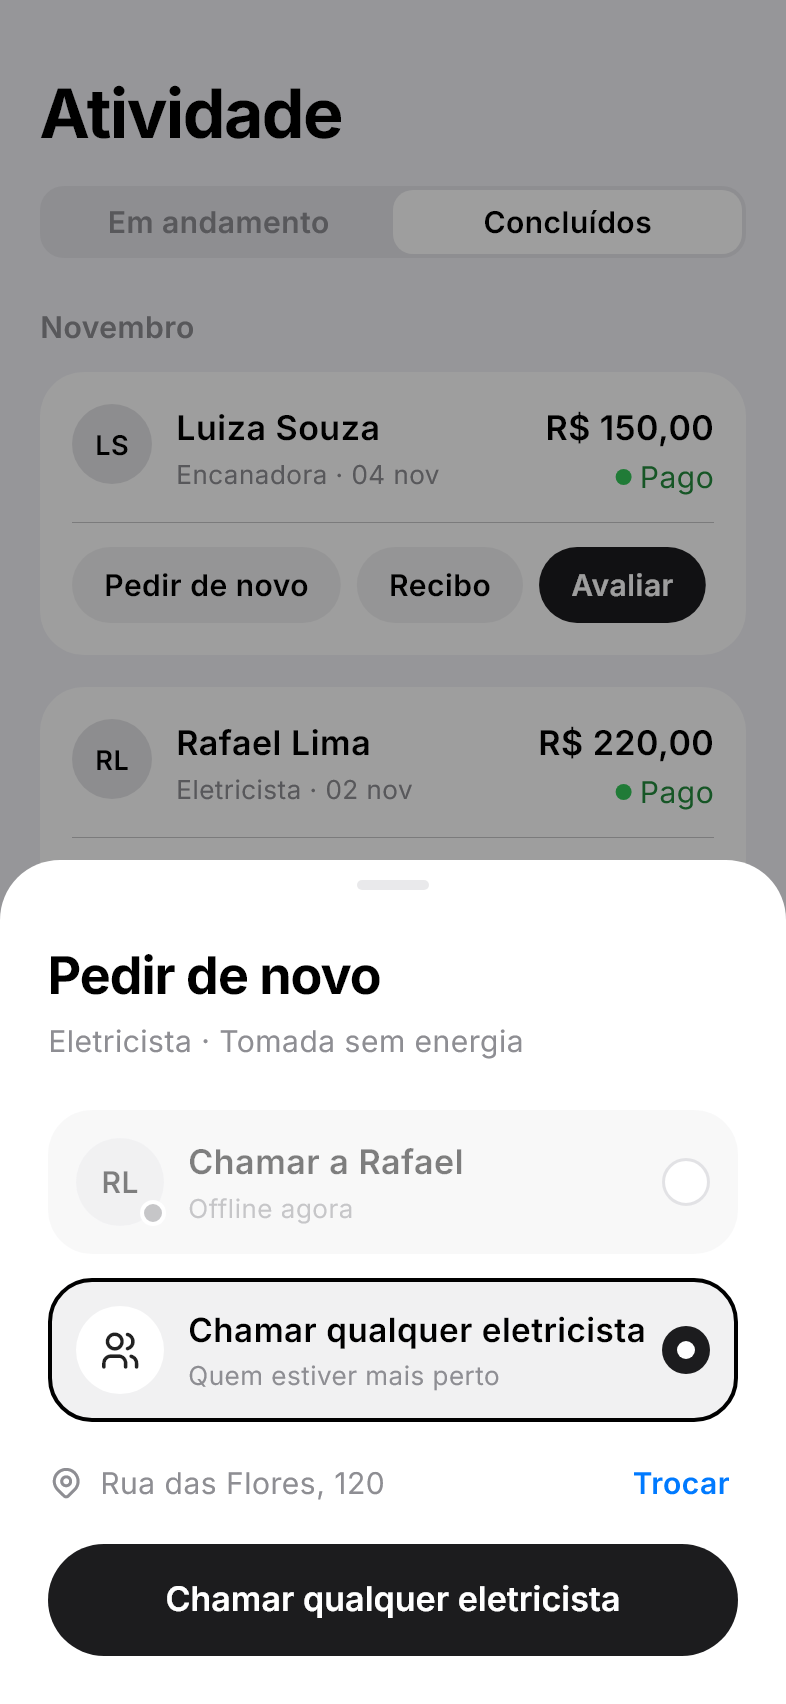
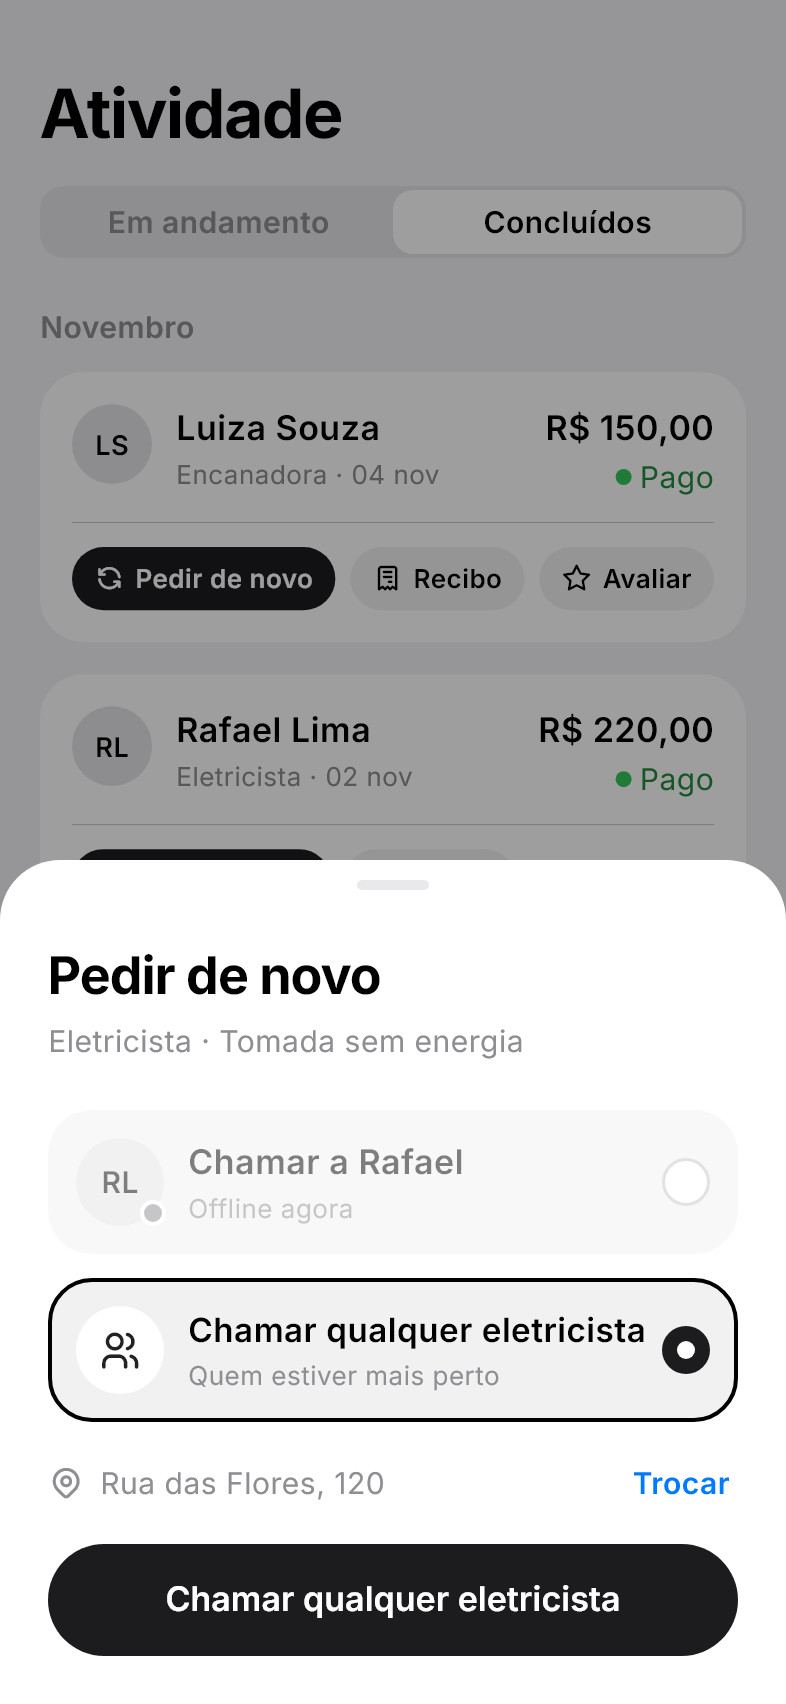
Ajustes: enviar no chat, ícones e status horizontal na Atividade

diff --git a/app/lib/shared/widgets/linha_do_tempo.dart b/app/lib/shared/widgets/linha_do_tempo.dart
@@ -114,3 +114,130 @@ class SeloVerde extends StatelessWidget {
     );
   }
 }
+
+/// Selo preto pequeno (ex.: tempo de chegada "12 min").
+class SeloPreto extends StatelessWidget {
+  const SeloPreto(this.texto, {super.key});
+
+  final String texto;
+
+  @override
+  Widget build(BuildContext context) {
+    return Container(
+      padding: const EdgeInsets.symmetric(horizontal: 10, vertical: 4),
+      decoration: const ShapeDecoration(
+        color: TatuColors.action,
+        shape: StadiumBorder(),
+      ),
+      child: Text(
+        texto,
+        style: const TextStyle(
+          fontSize: 13,
+          fontWeight: FontWeight.w700,
+          color: TatuColors.onAction,
+        ),
+      ),
+    );
+  }
+}
+
+/// Etapas na horizontal: bolinhas ligadas por uma linha, nomes embaixo.
+/// A etapa atual (a última feita) ganha um anel.
+class LinhaDoTempoHorizontal extends StatelessWidget {
+  const LinhaDoTempoHorizontal({
+    super.key,
+    required this.etapas,
+    required this.feitas,
+  });
+
+  final List<String> etapas;
+  final int feitas;
+
+  @override
+  Widget build(BuildContext context) {
+    final atual = feitas - 1;
+    return Semantics(
+      label: 'Etapa atual: ${etapas[atual.clamp(0, etapas.length - 1)]}',
+      child: ExcludeSemantics(
+        child: Column(
+          children: [
+            SizedBox(
+              height: 20,
+              child: CustomPaint(
+                size: Size.infinite,
+                painter: _Trilho(total: etapas.length, atual: atual),
+              ),
+            ),
+            const SizedBox(height: 6),
+            Row(
+              children: [
+                for (var i = 0; i < etapas.length; i++)
+                  Expanded(
+                    child: Padding(
+                      padding: const EdgeInsets.symmetric(horizontal: 2),
+                      child: FittedBox(
+                        fit: BoxFit.scaleDown,
+                        child: Text(
+                          etapas[i],
+                          maxLines: 1,
+                          style: TextStyle(
+                            fontSize: 12,
+                            fontWeight: i == atual
+                                ? FontWeight.w600
+                                : FontWeight.w400,
+                            color: i <= atual
+                                ? TatuColors.textPrimary
+                                : TatuColors.textSecondary,
+                          ),
+                        ),
+                      ),
+                    ),
+                  ),
+              ],
+            ),
+          ],
+        ),
+      ),
+    );
+  }
+}
+
+class _Trilho extends CustomPainter {
+  const _Trilho({required this.total, required this.atual});
+
+  final int total;
+  final int atual;
+
+  @override
+  void paint(Canvas canvas, Size size) {
+    final y = size.height / 2;
+    double x(int i) => size.width * (i + 0.5) / total;
+    final feito = Paint()
+      ..color = TatuColors.action
+      ..strokeWidth = 2;
+    final falta = Paint()
+      ..color = TatuColors.chevron
+      ..strokeWidth = 2;
+    for (var i = 0; i < total - 1; i++) {
+      canvas.drawLine(
+        Offset(x(i), y),
+        Offset(x(i + 1), y),
+        i < atual ? feito : falta,
+      );
+    }
+    for (var i = 0; i < total; i++) {
+      final c = Offset(x(i), y);
+      if (i == atual) {
+        canvas.drawCircle(c, 9, Paint()..color = TatuColors.action);
+        canvas.drawCircle(c, 7, Paint()..color = TatuColors.bg);
+        canvas.drawCircle(c, 5, Paint()..color = TatuColors.action);
+      } else {
+        canvas.drawCircle(c, 5.5, i < atual ? feito : falta);
+      }
+    }
+  }
+
+  @override
+  bool shouldRepaint(_Trilho oldDelegate) =>
+      oldDelegate.total != total || oldDelegate.atual != atual;
+}

diff --git a/app/lib/features/cliente/atividade/atividade_page.dart b/app/lib/features/cliente/atividade/atividade_page.dart
@@ -164,22 +164,29 @@ class _CartaoAndamento extends StatelessWidget {
                   crossAxisAlignment: CrossAxisAlignment.start,
                   children: [
                     Text(
-                      '${pedido.servico} · ${pedido.primeiroNome}',
+                      pedido.profissional,
                       style: const TextStyle(
                         fontSize: 17,
                         fontWeight: FontWeight.w600,
                       ),
                     ),
                     const SizedBox(height: 2),
-                    Text(pedido.endereco, style: TatuTexto.nota),
+                    Text(
+                      '${pedido.servico} · ${pedido.descricao}',
+                      style: TatuTexto.nota,
+                    ),
                   ],
                 ),
               ),
-              SeloVerde(pedido.situacao),
+              const SizedBox(width: 8),
+              SeloPreto(pedido.chegaEm),
             ],
           ),
-          const SizedBox(height: TatuMedidas.entreItens),
-          LinhaDoTempo(etapas: etapasPedido, feitas: pedido.etapasFeitas),
+          const SizedBox(height: TatuMedidas.entreSecoes),
+          LinhaDoTempoHorizontal(
+            etapas: etapasCurtas,
+            feitas: pedido.etapasFeitas,
+          ),
         ],
       ),
     );
@@ -450,30 +457,40 @@ class _CartaoConcluido extends StatelessWidget {
           const SizedBox(height: TatuMedidas.entreItens),
           Row(
             children: [
-              // Quebra de linha se não couber (telas estreitas).
+              // Uma linha só; em telas estreitas os botões encolhem um pouco.
               Expanded(
-                child: Wrap(
-                  spacing: 8,
-                  runSpacing: 8,
-                  children: [
-                    TatuChip(
-                      label: 'Pedir de novo',
-                      onTap: () => abrirPedirDeNovo(context, p),
-                    ),
-                    if (!p.cancelado)
+                child: FittedBox(
+                  fit: BoxFit.scaleDown,
+                  alignment: Alignment.centerLeft,
+                  child: Row(
+                    spacing: 8,
+                    children: [
                       TatuChip(
-                        label: 'Recibo',
-                        onTap: () => abrir(ReciboPage(pedido: p)),
-                      ),
-                    if (!p.cancelado && nota == null)
-                      TatuChip(
-                        label: 'Avaliar',
+                        label: 'Pedir de novo',
+                        iconeFixo: TablerIcons.refresh,
                         selecionado: true,
-                        onTap: () => abrir(AvaliarPage(pedido: p)),
+                        pequeno: true,
+                        onTap: () => abrirPedirDeNovo(context, p),
                       ),
-                  ],
+                      if (!p.cancelado)
+                        TatuChip(
+                          label: 'Recibo',
+                          iconeFixo: TablerIcons.receipt,
+                          pequeno: true,
+                          onTap: () => abrir(ReciboPage(pedido: p)),
+                        ),
+                      if (!p.cancelado && nota == null)
+                        TatuChip(
+                          label: 'Avaliar',
+                          iconeFixo: TablerIcons.star,
+                          pequeno: true,
+                          onTap: () => abrir(AvaliarPage(pedido: p)),
+                        ),
+                    ],
+                  ),
                 ),
               ),
+              if (!p.cancelado && nota != null) const SizedBox(width: 8),
               if (!p.cancelado && nota != null)
                 Semantics(
                   button: true,

diff --git a/app/lib/shared/widgets/tatu_chip.dart b/app/lib/shared/widgets/tatu_chip.dart
@@ -13,6 +13,8 @@ class TatuChip extends StatelessWidget {
     this.selecionado = false,
     this.icone,
     this.seta = false,
+    this.iconeFixo,
+    this.pequeno = false,
   });
 
   final String label;
@@ -24,6 +26,12 @@ class TatuChip extends StatelessWidget {
 
   /// Setinha para baixo: o chip abre uma lista (ex.: "Outros").
   final bool seta;
+
+  /// Ícone sempre visível antes do texto (ex.: botões da Atividade).
+  final IconData? iconeFixo;
+
+  /// Versão menor, para botões dentro de cartões.
+  final bool pequeno;
 
   @override
   Widget build(BuildContext context) {
@@ -38,8 +46,10 @@ class TatuChip extends StatelessWidget {
           onTap: onTap,
           customBorder: const StadiumBorder(),
           child: Container(
-            height: TatuMedidas.alturaChip,
-            padding: const EdgeInsets.symmetric(horizontal: 16),
+            height: pequeno
+                ? TatuMedidas.alturaChipPequeno
+                : TatuMedidas.alturaChip,
+            padding: EdgeInsets.symmetric(horizontal: pequeno ? 12 : 16),
             child: Row(
               mainAxisSize: MainAxisSize.min,
               children: [
@@ -47,13 +57,17 @@ class TatuChip extends StatelessWidget {
                   Icon(icone, size: 16, color: cor),
                   const SizedBox(width: 6),
                 ],
+                if (iconeFixo != null) ...[
+                  Icon(iconeFixo, size: pequeno ? 16 : 18, color: cor),
+                  SizedBox(width: pequeno ? 6 : 8),
+                ],
                 Flexible(
                   child: Text(
                     label,
                     maxLines: 1,
                     overflow: TextOverflow.ellipsis,
                     style: TextStyle(
-                      fontSize: 15,
+                      fontSize: pequeno ? 14 : 15,
                       fontWeight: FontWeight.w600,
                       color: cor,
                     ),

diff --git a/app/lib/shared/widgets/chat.dart b/app/lib/shared/widgets/chat.dart
@@ -310,6 +310,37 @@ class BarraMensagem extends StatelessWidget {
             ),
           ),
         ),
+        const SizedBox(width: 8),
+        // Enviar (como no WhatsApp): preto quando há texto.
+        ListenableBuilder(
+          listenable: controller,
+          builder: (context, _) {
+            final temTexto = controller.text.trim().isNotEmpty;
+            return Semantics(
+              button: true,
+              label: 'Enviar mensagem',
+              child: Material(
+                color: temTexto ? TatuColors.action : TatuColors.fill,
+                shape: const CircleBorder(),
+                child: InkWell(
+                  customBorder: const CircleBorder(),
+                  onTap: temTexto ? onEnviar : null,
+                  child: SizedBox(
+                    width: 36,
+                    height: 36,
+                    child: Icon(
+                      TablerIcons.send,
+                      size: 18,
+                      color: temTexto
+                          ? TatuColors.onAction
+                          : TatuColors.textSecondary,
+                    ),
+                  ),
+                ),
+              ),
+            );
+          },
+        ),
       ],
     );
   }

diff --git a/app/test/atividade_test.dart b/app/test/atividade_test.dart
@@ -20,7 +20,7 @@ void main() {
 
   testWidgets('Em andamento: pedido e busca em segundo plano', (t) async {
     await _abrirAtividade(t);
-    expect(find.text('Encanador · Luiza'), findsOneWidget);
+    expect(find.text('Encanador · Vazamento na pia'), findsOneWidget);
     expect(find.text('Buscando em segundo plano'), findsOneWidget);
     await t.tap(find.text('Cancelar'));
     await t.pump();
@@ -31,7 +31,7 @@ void main() {
     t,
   ) async {
     await _abrirAtividade(t);
-    await t.tap(find.text('Encanador · Luiza'));
+    await t.tap(find.text('Encanador · Vazamento na pia'));
     await t.pumpAndSettle();
     expect(find.text('Pedido'), findsOneWidget);
     await t.tap(find.text('Cancelar pedido'));

diff --git a/app/lib/data/pedidos.dart b/app/lib/data/pedidos.dart
@@ -9,6 +9,15 @@ const etapasPedido = [
   'Pagamento',
 ];
 
+/// Nomes curtos das etapas (linha do tempo na horizontal).
+const etapasCurtas = [
+  'Pedido',
+  'Combinado',
+  'A caminho',
+  'Serviço',
+  'Pagamento',
+];
+
 /// Pedido com profissional, ainda não concluído.
 @immutable
 class PedidoAndamento {
@@ -22,7 +31,11 @@ class PedidoAndamento {
     required this.pagamento,
     required this.etapasFeitas,
     this.chegaEm = '12 min',
+    this.descricao = 'Vazamento na pia',
   });
+
+  /// O que a pessoa pediu (ex.: "Vazamento na pia").
+  final String descricao;
 
   /// Previsão de chegada (ex.: "12 min").
   final String chegaEm;

diff --git a/app/lib/core/theme/tatu_medidas.dart b/app/lib/core/theme/tatu_medidas.dart
@@ -29,6 +29,7 @@ class TatuMedidas {
   static const alturaCampo = 62.0;
   static const alturaBusca = 48.0;
   static const alturaChip = 38.0;
+  static const alturaChipPequeno = 34.0; // botões dentro de cartões
   static const alturaLinha = 52.0;
   static const alturaSegmento = 36.0;
 

diff --git a/CLAUDE.md b/CLAUDE.md
@@ -64,7 +64,7 @@ Publicado em https://claude.ai/artifact/UbvPYpEqyP5sWj9cbtvT7B. Fonte: `docs/flu
   - `core/theme/tatu_medidas.dart` (`TatuMedidas`): margem 20 (telas internas, Home, Perfil, folhas) · margemCadastro 24 (entrada/cadastro) · topo 20 · base 24 · entreItens 12 · entreSecoes 24 · raioCartao 18 · raioCampo 16 · raioOpcao 22 · raioFolha 30 · alturaBotao 56 · alturaCampo 62 · alturaBusca 48 · alturaChip 38 · alturaLinha 52.
   - `core/theme/tatu_texto.dart` (`TatuTexto`): tituloFolha 22 · corpo 15 (folhas, estados vazios) · detalhe 15 cinza (linhas, "Oi, Ana") · nota 13 cinza (avisos/dicas) · secao 13 maiúsculas.
   - Botão secundário: `tatuBotaoSecundario()`.
-- **Componentes únicos** (`shared/widgets/`): `TelaInterna` (topo + margens de toda tela interna), `CadastroScaffold` (telas de cadastro), `EstadoVazio`, `mostrarFolha`/`AlcaFolha`/`confirmar` (folhas; com ícone de atenção e `destacarCancelar` para a opção segura em cima), `LinhaIcone`/`DivisorLinha`, `GrupoLista`/`ItemLista`, `GrupoCartao`/`LinhaInterruptor` (cartão agrupado com interruptores), `TatuField`, `TatuChip`, `CampoBusca`, `BotaoTracejado`, `TopoTela`, `AbasCliente`, `Segmento`, `Estrelas`, `AvatarIniciais`, `AvatarUsuario`/`AvatarComAro` (foto ou avatar da pessoa logada), `mostrarAvisoTopo` (aviso escuro de sucesso no topo), `TelaPermissao`/`IconePermissao` (permissão negada ou ação bloqueada; botão principal e cor de aviso configuráveis), `CampoCelular` (BR +55 + celular formatado), `CartaoBotao` (ação centralizada em cartão: Sair, Excluir conta). `OpcaoSelecionavel`/`BolinhaEscolha` (cartão de escolha única com borda preta), `LinkAzul`, `LinhaSimples` (texto + seta), `TelaPermissaoCorpo` (ícone + título + texto de tela cheia). `CartaoAcao`/`IconeCirculo` (cartão branco com ícone, título, detalhe e seta). `LinhaDoTempo`/`SeloVerde` (etapas do pedido e selo de situação), `LinhaRotuloValor` (rótulo cinza + valor, Total em destaque). Abas do cliente: `AbasDoCliente`/`irParaAba` em `features/cliente/abas.dart`. Título grande de aba: `TatuTexto.tituloGrande`. Chat: `TelaChat`/`BalaoChat`/`BarraMensagem`/`CartaoPedidoChat`/`NotaChat` em `shared/widgets/chat.dart`. Título de grupo em lista: `TatuTexto.grupo`. Folha de opções: `FolhaOpcoes`; pergunta com 3 saídas: `perguntar` (bool?). Mapa ilustrativo: `MapaFalso`. Estrelas para escolher nota: `EstrelasEscolha`. Ação com ícone no topo: `acaoIcone` em `TelaInterna`. Botão destrutivo: `tatuBotaoPerigo()`. Tela nova reaproveita esses; se precisar de algo novo que se repete, vira componente aqui.
+- **Componentes únicos** (`shared/widgets/`): `TelaInterna` (topo + margens de toda tela interna), `CadastroScaffold` (telas de cadastro), `EstadoVazio`, `mostrarFolha`/`AlcaFolha`/`confirmar` (folhas; com ícone de atenção e `destacarCancelar` para a opção segura em cima), `LinhaIcone`/`DivisorLinha`, `GrupoLista`/`ItemLista`, `GrupoCartao`/`LinhaInterruptor` (cartão agrupado com interruptores), `TatuField`, `TatuChip` (`iconeFixo`, `pequeno` para botões em cartões), `CampoBusca`, `BotaoTracejado`, `TopoTela`, `AbasCliente`, `Segmento`, `Estrelas`, `AvatarIniciais`, `AvatarUsuario`/`AvatarComAro` (foto ou avatar da pessoa logada), `mostrarAvisoTopo` (aviso escuro de sucesso no topo), `TelaPermissao`/`IconePermissao` (permissão negada ou ação bloqueada; botão principal e cor de aviso configuráveis), `CampoCelular` (BR +55 + celular formatado), `CartaoBotao` (ação centralizada em cartão: Sair, Excluir conta). `OpcaoSelecionavel`/`BolinhaEscolha` (cartão de escolha única com borda preta), `LinkAzul`, `LinhaSimples` (texto + seta), `TelaPermissaoCorpo` (ícone + título + texto de tela cheia). `CartaoAcao`/`IconeCirculo` (cartão branco com ícone, título, detalhe e seta). `LinhaDoTempo`/`SeloVerde` (etapas do pedido e selo de situação), `LinhaDoTempoHorizontal`/`SeloPreto` (status em andamento na Atividade), `LinhaRotuloValor` (rótulo cinza + valor, Total em destaque). Abas do cliente: `AbasDoCliente`/`irParaAba` em `features/cliente/abas.dart`. Título grande de aba: `TatuTexto.tituloGrande`. Chat: `TelaChat`/`BalaoChat`/`BarraMensagem` (câmera, campo e botão enviar)/`CartaoPedidoChat`/`NotaChat` em `shared/widgets/chat.dart`. Título de grupo em lista: `TatuTexto.grupo`. Folha de opções: `FolhaOpcoes`; pergunta com 3 saídas: `perguntar` (bool?). Mapa ilustrativo: `MapaFalso`. Estrelas para escolher nota: `EstrelasEscolha`. Ação com ícone no topo: `acaoIcone` em `TelaInterna`. Botão destrutivo: `tatuBotaoPerigo()`. Tela nova reaproveita esses; se precisar de algo novo que se repete, vira componente aqui.
 - Valor novo só entra no arquivo de medidas/textos, nunca direto na tela.
 
 ## Como trabalhar

diff --git a/PROGRESSO.md b/PROGRESSO.md
@@ -46,6 +46,7 @@ Próxima tela: Gustavo envia a referência. Construir **uma tela por vez, junto 
 - [x] Procurando (C10–C12) — `chamar/procurando_page.dart` + `ninguem_ativo_page.dart`: "Chamar" e "Chamar outro" abrem a busca com mapa e radar; aos 60 s expande, aos 90 s vira "Ninguém ativo" (busca em segundo plano na Atividade, onde "Tentar de novo" reabre a busca). O "x" também deixa em segundo plano. "Chamando outro profissional" usa a mesma tela. Falta: C13 Profissional encontrado em diante
 - [x] Outros serviços (6 telas) — `features/cliente/outros/`: folha com mais pedidos, grupos e busca (resultados e nada encontrado), "Não sei qual serviço". Na Home, o escolhido fica no lugar do chip "Outros" (com setinha); "Não sei" pede a descrição e chama "profissional". Catálogo em `data/servicos.dart`. `TatuChip` com `seta`; `ItemLista` com `detalhe`. Falta: C05 conflito IA × escolha manual
 - [x] Botões da Atividade (8 telas) — Concluídos com Pedir de novo / Recibo / Avaliar (ou estrelas) e pedido cancelado; Avaliar (C22) e Sua avaliação (editar); Recibo e Comprovante (pago por fora; "Enviar por e-mail" pede o e-mail se faltar); folha Pedir de novo (mesmo profissional online/offline ou qualquer um) e Chamando o mesmo profissional (2 min, depois chama os outros). `EstrelasEscolha`, `SeloVerde(aviso:)`, `TopoTela`/`TelaInterna` com `acaoIcone`. Falta: baixar PDF e compartilhar
+- [x] Ajustes — botão enviar no chat (como no WhatsApp, preto quando há texto); ícones nos botões da Atividade (numa linha só); status em andamento com nome, serviço · descrição, selo preto com o tempo e etapas na horizontal (`LinhaDoTempoHorizontal`, `SeloPreto`).
 - [x] Padronização: `TatuMedidas`, `TatuTexto`, `TelaInterna`, `EstadoVazio`, `mostrarFolha`/`confirmar`, `LinhaIcone` (ver CLAUDE.md)
 - [ ] C1 Abertura
 - [ ] C3 Home (vazia, IA marcou, conflito, Outros)
